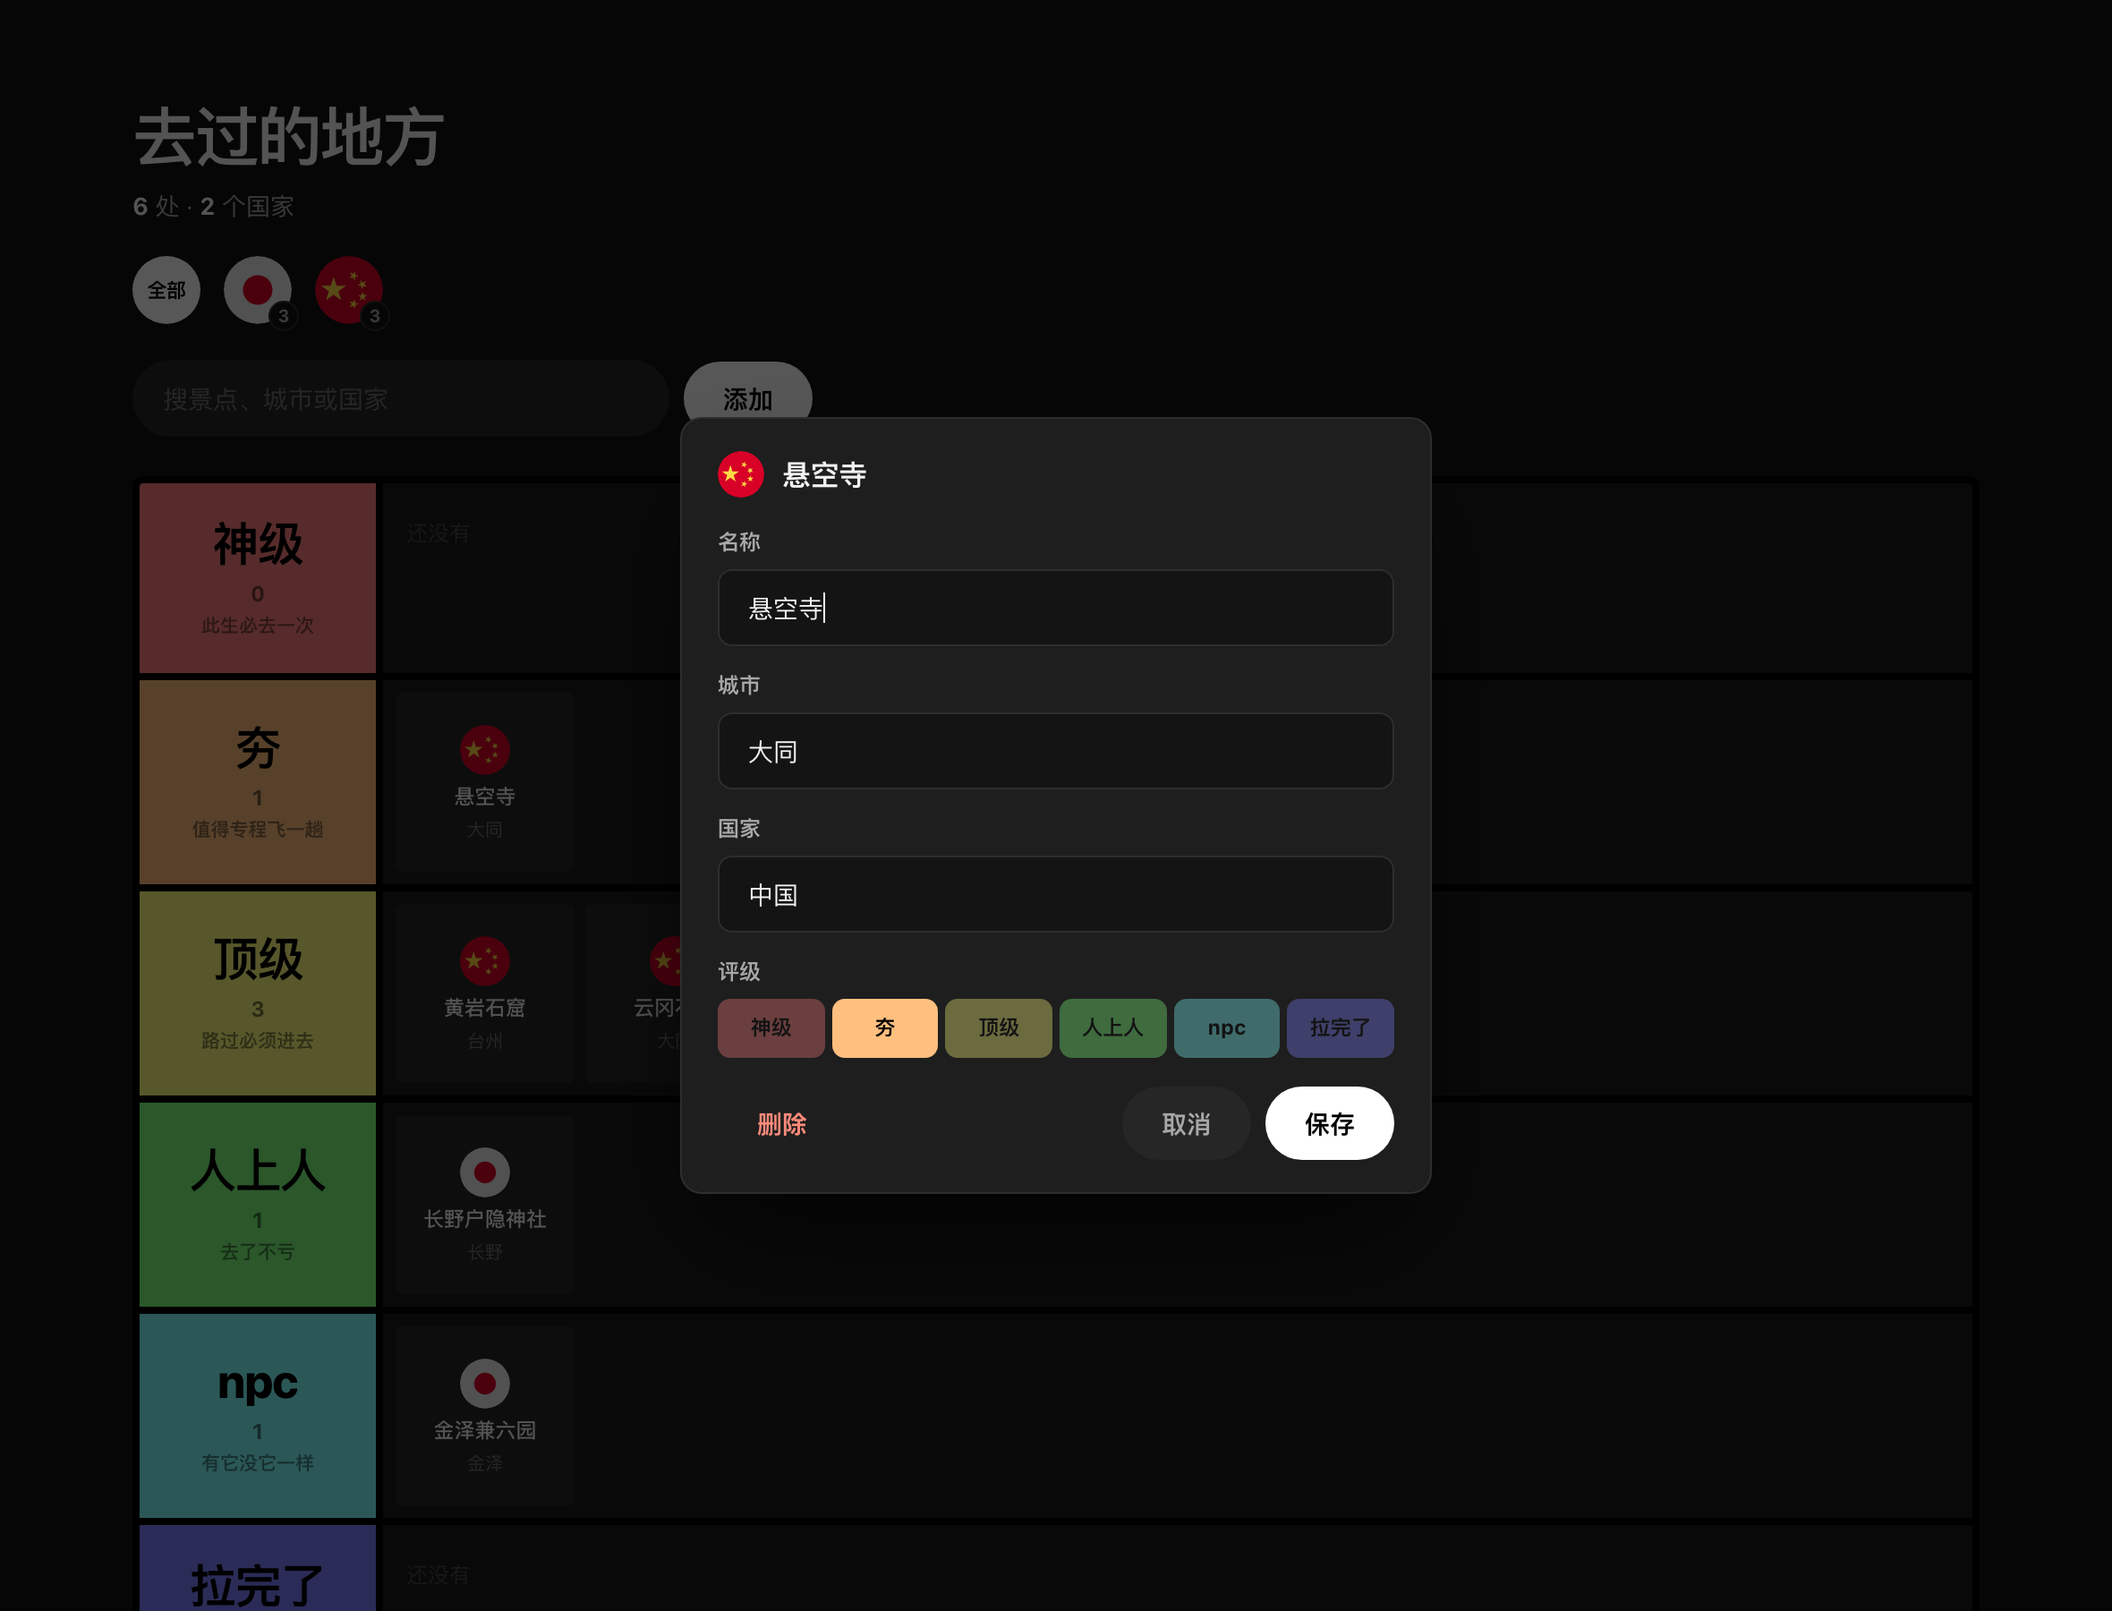
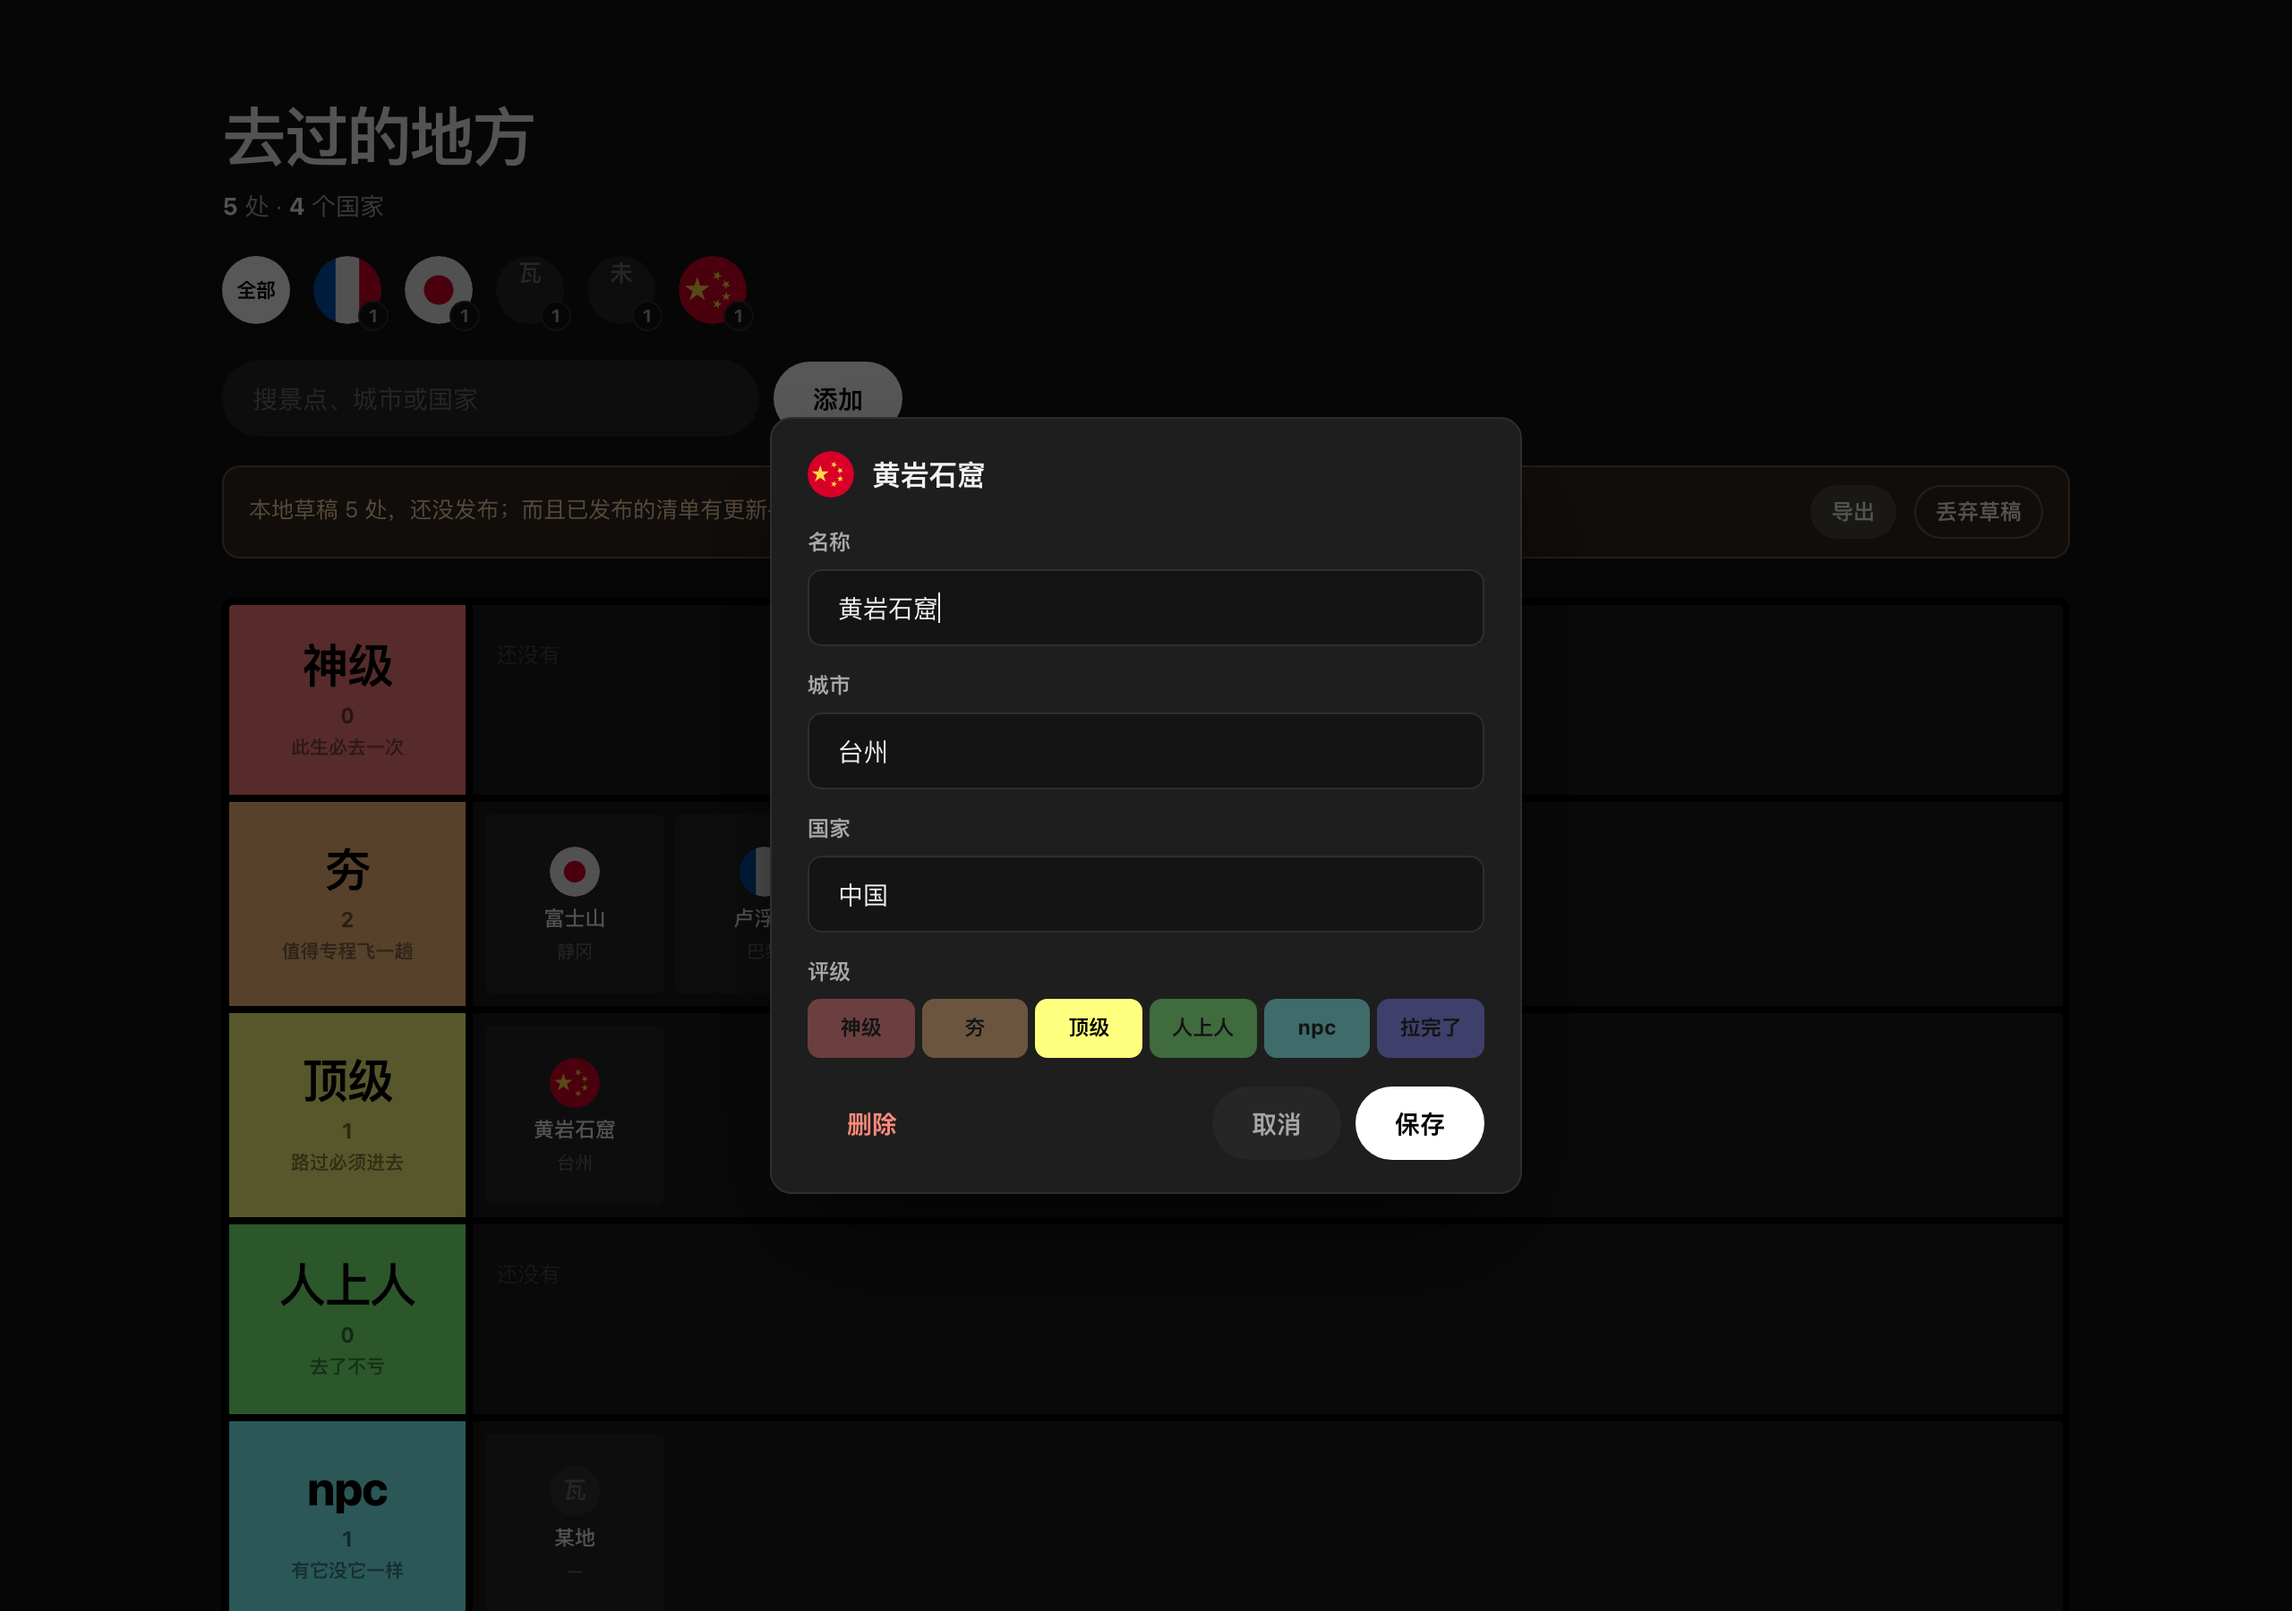
新增 3 个日本景点
- 河口湖    富士河口湖（山梨县南都留郡富士河口湖町）  npc
- 鹤见台    鹤居（北海道阿寒郡鹤居村）              人上人
- 阿寒湖    钏路（北海道钏路市阿寒町）              人上人

共 9 处 / 2 个国家。鹤见台所在的鹤居是村不是市，和其他条目的地级市粒度不齐，
待确认是否改成最近的钏路市。

录入模板同步预填这 9 条。测试 55 项全过。

diff --git a/spots.js b/spots.js
@@ -2,10 +2,13 @@
    tier 取 shen / hang / top / ren / npc / la
    （神级 / 夯 / 顶级 / 人上人 / npc / 拉完了） */
 window.SPOTS = [
-  { "name": "黄岩石窟",     "city": "台州", "country": "中国", "tier": "top" },
-  { "name": "云冈石窟",     "city": "大同", "country": "中国", "tier": "top" },
-  { "name": "悬空寺",       "city": "大同", "country": "中国", "tier": "hang" },
-  { "name": "长野户隐神社", "city": "长野", "country": "日本", "tier": "ren" },
-  { "name": "金泽城",       "city": "金泽", "country": "日本", "tier": "top" },
-  { "name": "金泽兼六园",   "city": "金泽", "country": "日本", "tier": "npc" }
+  { "name": "黄岩石窟",     "city": "台州",       "country": "中国", "tier": "top" },
+  { "name": "云冈石窟",     "city": "大同",       "country": "中国", "tier": "top" },
+  { "name": "悬空寺",       "city": "大同",       "country": "中国", "tier": "hang" },
+  { "name": "长野户隐神社", "city": "长野",       "country": "日本", "tier": "ren" },
+  { "name": "金泽城",       "city": "金泽",       "country": "日本", "tier": "top" },
+  { "name": "金泽兼六园",   "city": "金泽",       "country": "日本", "tier": "npc" },
+  { "name": "河口湖",       "city": "富士河口湖", "country": "日本", "tier": "npc" },
+  { "name": "鹤见台",       "city": "鹤居",       "country": "日本", "tier": "ren" },
+  { "name": "阿寒湖",       "city": "钏路",       "country": "日本", "tier": "ren" }
 ];
